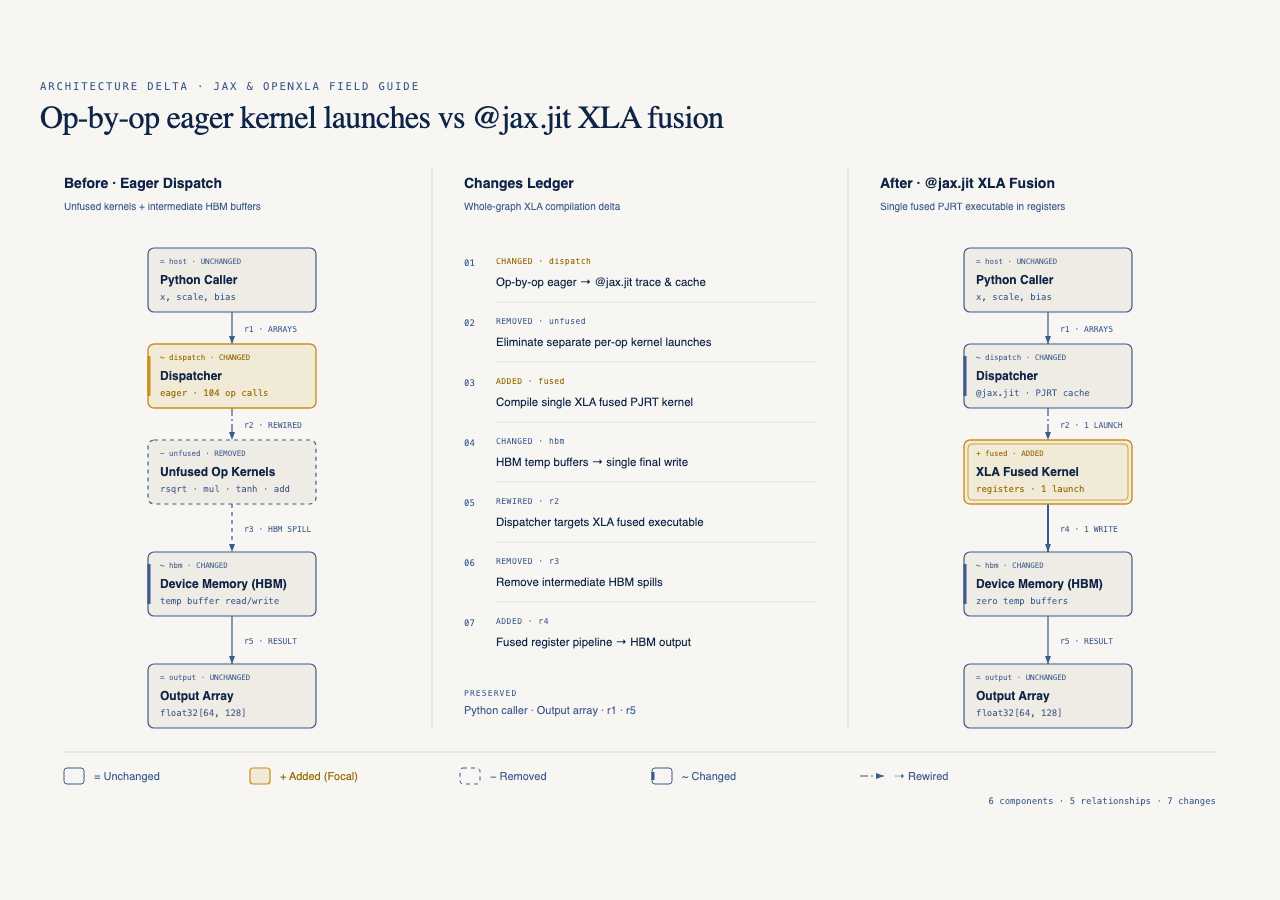
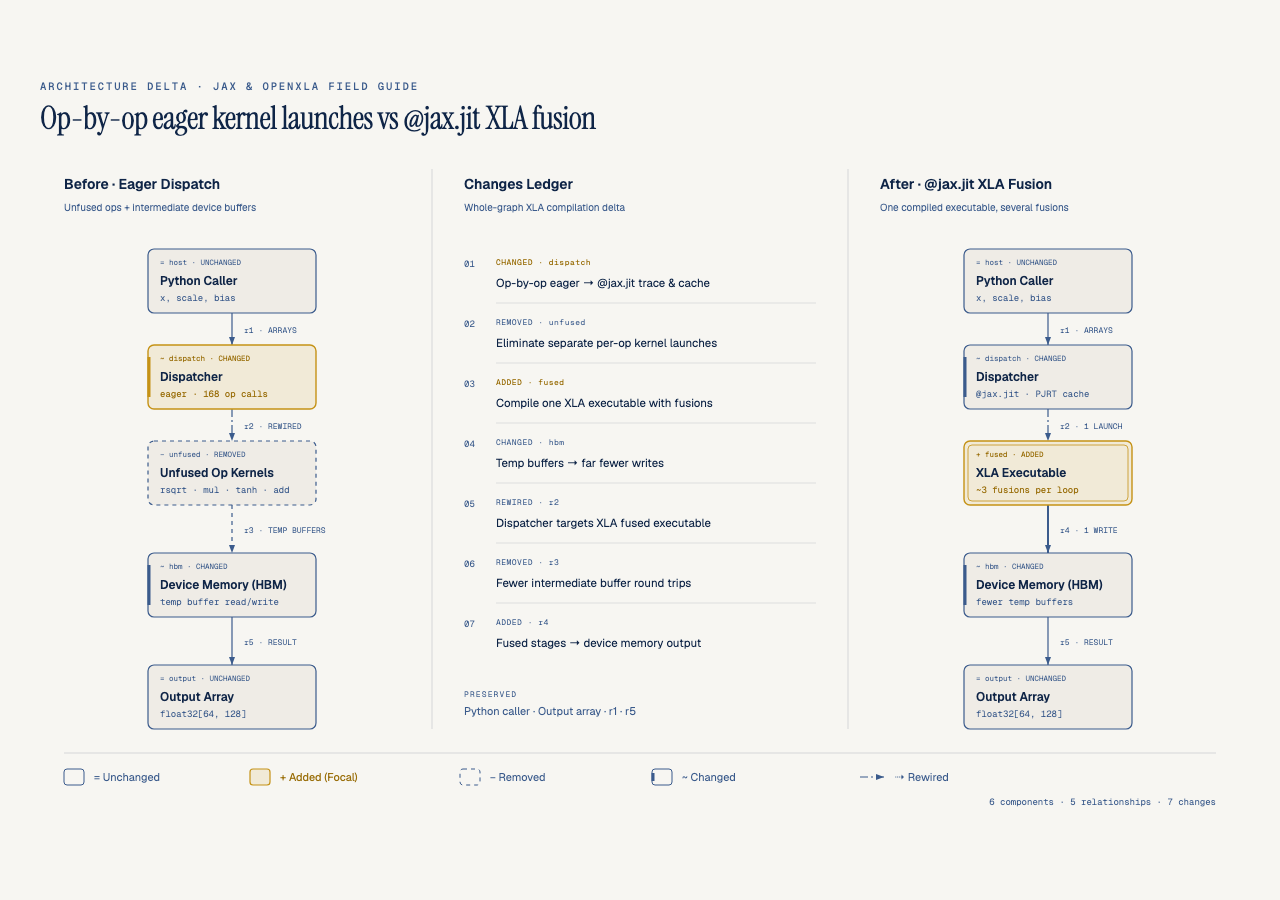
Label each speedup with its baseline; fix kernel/register claims in README and diagrams

diff --git a/diagrams/01-eager-vs-jit.html b/diagrams/01-eager-vs-jit.html
@@ -39,17 +39,17 @@
     <div class="diagram-container" role="region" aria-label="Before, changes, and after architecture comparison; scroll horizontally on narrow screens" tabindex="0">
       <svg viewBox="0 0 1200 660" xmlns="http://www.w3.org/2000/svg" data-diagram="architecture-delta" role="img" aria-labelledby="eager-vs-jit-title eager-vs-jit-desc">
         <title id="eager-vs-jit-title">Eager kernel dispatch vs @jax.jit XLA fusion</title>
-        <desc id="eager-vs-jit-desc">Architecture delta comparing eager operator-by-operator dispatch with intermediate HBM roundtrips against a single XLA-fused PJRT kernel under @jax.jit.</desc>
+        <desc id="eager-vs-jit-desc">Architecture delta comparing eager operator-by-operator dispatch with intermediate buffer roundtrips against one compiled XLA executable with several fusions under @jax.jit.</desc>
         <defs>
           <marker id="eager-vs-jit-arrow" markerWidth="8" markerHeight="6" refX="8" refY="3" orient="auto" markerUnits="userSpaceOnUse"><polygon points="0 0, 8 3, 0 6" fill="#3B5B8C"/></marker>
         </defs>
         <rect width="1200" height="660" fill="#F7F6F2"/>
         <text x="24" y="28" fill="#0F2547" font-size="14" font-family="'Geist', sans-serif" font-weight="600">Before · Eager Dispatch</text>
-        <text x="24" y="50" fill="#3B5B8C" font-size="10" font-family="'Geist', sans-serif">Unfused kernels + intermediate HBM buffers</text>
+        <text x="24" y="50" fill="#3B5B8C" font-size="10" font-family="'Geist', sans-serif">Unfused ops + intermediate device buffers</text>
         <text x="424" y="28" fill="#0F2547" font-size="14" font-family="'Geist', sans-serif" font-weight="600">Changes Ledger</text>
         <text x="424" y="50" fill="#3B5B8C" font-size="10" font-family="'Geist', sans-serif">Whole-graph XLA compilation delta</text>
         <text x="840" y="28" fill="#0F2547" font-size="14" font-family="'Geist', sans-serif" font-weight="600">After · @jax.jit XLA Fusion</text>
-        <text x="840" y="50" fill="#3B5B8C" font-size="10" font-family="'Geist', sans-serif">Single fused PJRT executable in registers</text>
+        <text x="840" y="50" fill="#3B5B8C" font-size="10" font-family="'Geist', sans-serif">One compiled executable, several fusions</text>
         <path d="M 392 8 V 568 M 808 8 V 568" stroke="rgba(15,37,71,0.14)" stroke-width="1"/>
 
         <g data-snapshot="before" transform="translate(24 88)" data-grid="336 480 4">
@@ -63,7 +63,7 @@
           <rect x="176" y="168" width="96" height="16" rx="2" fill="#F7F6F2"/>
           <text x="180" y="180" fill="#3B5B8C" font-size="8" font-family="'Geist Mono', monospace">r2 · REWIRED</text>
           <rect x="176" y="272" width="108" height="16" rx="2" fill="#F7F6F2"/>
-          <text x="180" y="284" fill="#3B5B8C" font-size="8" font-family="'Geist Mono', monospace">r3 · HBM SPILL</text>
+          <text x="180" y="284" fill="#3B5B8C" font-size="8" font-family="'Geist Mono', monospace">r3 · TEMP BUFFERS</text>
           <rect x="176" y="384" width="96" height="16" rx="2" fill="#F7F6F2"/>
           <text x="180" y="396" fill="#3B5B8C" font-size="8" font-family="'Geist Mono', monospace">r5 · RESULT</text>
 
@@ -79,7 +79,7 @@
             <path d="M 85 108 V 148" fill="none" stroke="#C59216" stroke-width="3"/>
             <text x="96" y="112" fill="#9A6F0B" font-size="7.5" font-family="'Geist Mono', monospace">~ dispatch · CHANGED</text>
             <text x="96" y="132" fill="#0F2547" font-size="12" font-family="'Geist', sans-serif" font-weight="600">Dispatcher</text>
-            <text x="96" y="148" fill="#9A6F0B" font-size="9" font-family="'Geist Mono', monospace">eager · 104 op calls</text>
+            <text x="96" y="148" fill="#9A6F0B" font-size="9" font-family="'Geist Mono', monospace">eager · 168 op calls</text>
           </g>
 
           <g data-kind="component" data-object-id="unfused" data-status="removed" data-signature="kernels:unfused:v1">
@@ -115,11 +115,11 @@
         <path d="M 456 202 H 776" stroke="rgba(15,37,71,0.14)" stroke-width="0.8"/>
 
         <text x="424" y="226" fill="#3B5B8C" font-size="9" font-family="'Geist Mono', monospace">03</text>
-        <text x="456" y="224" data-change="ADDED" data-target="fused" fill="#9A6F0B" font-size="8" font-family="'Geist Mono', monospace" letter-spacing="0.06em">ADDED · fused<tspan x="456" y="246" fill="#0F2547" font-size="11.5" font-family="'Geist', sans-serif" letter-spacing="0">Compile single XLA fused PJRT kernel</tspan></text>
+        <text x="456" y="224" data-change="ADDED" data-target="fused" fill="#9A6F0B" font-size="8" font-family="'Geist Mono', monospace" letter-spacing="0.06em">ADDED · fused<tspan x="456" y="246" fill="#0F2547" font-size="11.5" font-family="'Geist', sans-serif" letter-spacing="0">Compile one XLA executable with fusions</tspan></text>
         <path d="M 456 262 H 776" stroke="rgba(15,37,71,0.14)" stroke-width="0.8"/>
 
         <text x="424" y="286" fill="#3B5B8C" font-size="9" font-family="'Geist Mono', monospace">04</text>
-        <text x="456" y="284" data-change="CHANGED" data-target="hbm" fill="#3B5B8C" font-size="8" font-family="'Geist Mono', monospace" letter-spacing="0.06em">CHANGED · hbm<tspan x="456" y="306" fill="#0F2547" font-size="11.5" font-family="'Geist', sans-serif" letter-spacing="0">HBM temp buffers → single final write</tspan></text>
+        <text x="456" y="284" data-change="CHANGED" data-target="hbm" fill="#3B5B8C" font-size="8" font-family="'Geist Mono', monospace" letter-spacing="0.06em">CHANGED · hbm<tspan x="456" y="306" fill="#0F2547" font-size="11.5" font-family="'Geist', sans-serif" letter-spacing="0">Temp buffers → far fewer writes</tspan></text>
         <path d="M 456 322 H 776" stroke="rgba(15,37,71,0.14)" stroke-width="0.8"/>
 
         <text x="424" y="346" fill="#3B5B8C" font-size="9" font-family="'Geist Mono', monospace">05</text>
@@ -127,11 +127,11 @@
         <path d="M 456 382 H 776" stroke="rgba(15,37,71,0.14)" stroke-width="0.8"/>
 
         <text x="424" y="406" fill="#3B5B8C" font-size="9" font-family="'Geist Mono', monospace">06</text>
-        <text x="456" y="404" data-change="REMOVED" data-target="r3" fill="#3B5B8C" font-size="8" font-family="'Geist Mono', monospace" letter-spacing="0.06em">REMOVED · r3<tspan x="456" y="426" fill="#0F2547" font-size="11.5" font-family="'Geist', sans-serif" letter-spacing="0">Remove intermediate HBM spills</tspan></text>
+        <text x="456" y="404" data-change="REMOVED" data-target="r3" fill="#3B5B8C" font-size="8" font-family="'Geist Mono', monospace" letter-spacing="0.06em">REMOVED · r3<tspan x="456" y="426" fill="#0F2547" font-size="11.5" font-family="'Geist', sans-serif" letter-spacing="0">Fewer intermediate buffer round trips</tspan></text>
         <path d="M 456 442 H 776" stroke="rgba(15,37,71,0.14)" stroke-width="0.8"/>
 
         <text x="424" y="466" fill="#3B5B8C" font-size="9" font-family="'Geist Mono', monospace">07</text>
-        <text x="456" y="464" data-change="ADDED" data-target="r4" fill="#3B5B8C" font-size="8" font-family="'Geist Mono', monospace" letter-spacing="0.06em">ADDED · r4<tspan x="456" y="486" fill="#0F2547" font-size="11.5" font-family="'Geist', sans-serif" letter-spacing="0">Fused register pipeline → HBM output</tspan></text>
+        <text x="456" y="464" data-change="ADDED" data-target="r4" fill="#3B5B8C" font-size="8" font-family="'Geist Mono', monospace" letter-spacing="0.06em">ADDED · r4<tspan x="456" y="486" fill="#0F2547" font-size="11.5" font-family="'Geist', sans-serif" letter-spacing="0">Fused stages → device memory output</tspan></text>
 
         <text x="424" y="536" fill="#3B5B8C" font-size="8" font-family="'Geist Mono', monospace" letter-spacing="0.14em">PRESERVED</text>
         <text x="424" y="554" fill="#3B5B8C" font-size="11" font-family="'Geist', sans-serif">Python caller · Output array · r1 · r5</text>
@@ -170,8 +170,8 @@
             <rect data-role="bounds" x="84" y="192" width="168" height="64" rx="6" fill="rgba(197,146,22,0.12)" stroke="#C59216" stroke-width="1.4"/>
             <rect x="88" y="196" width="160" height="56" rx="4" fill="none" stroke="#C59216" stroke-width="0.8"/>
             <text x="96" y="208" fill="#9A6F0B" font-size="7.5" font-family="'Geist Mono', monospace">+ fused · ADDED</text>
-            <text x="96" y="228" fill="#0F2547" font-size="12" font-family="'Geist', sans-serif" font-weight="600">XLA Fused Kernel</text>
-            <text x="96" y="244" fill="#9A6F0B" font-size="9" font-family="'Geist Mono', monospace">registers · 1 launch</text>
+            <text x="96" y="228" fill="#0F2547" font-size="12" font-family="'Geist', sans-serif" font-weight="600">XLA Executable</text>
+            <text x="96" y="244" fill="#9A6F0B" font-size="9" font-family="'Geist Mono', monospace">~3 fusions per loop</text>
           </g>
 
           <g data-kind="component" data-object-id="hbm" data-status="changed" data-signature="memory:final-only">
@@ -179,7 +179,7 @@
             <path d="M 85 316 V 356" fill="none" stroke="#3B5B8C" stroke-width="3"/>
             <text x="96" y="320" fill="#3B5B8C" font-size="7.5" font-family="'Geist Mono', monospace">~ hbm · CHANGED</text>
             <text x="96" y="340" fill="#0F2547" font-size="12" font-family="'Geist', sans-serif" font-weight="600">Device Memory (HBM)</text>
-            <text x="96" y="356" fill="#3B5B8C" font-size="9" font-family="'Geist Mono', monospace">zero temp buffers</text>
+            <text x="96" y="356" fill="#3B5B8C" font-size="9" font-family="'Geist Mono', monospace">fewer temp buffers</text>
           </g>
 
           <g data-kind="component" data-object-id="output" data-status="unchanged" data-signature="array:output:v1">

diff --git a/diagrams/03-vmap-scan-dataflow.html b/diagrams/03-vmap-scan-dataflow.html
@@ -43,7 +43,7 @@
     <div class="diagram-container">
       <svg viewBox="0 0 728 436" xmlns="http://www.w3.org/2000/svg" role="img" aria-labelledby="vmap-scan-title vmap-scan-desc">
         <title id="vmap-scan-title">vmap and lax.scan compiler dataflow</title>
-        <desc id="vmap-scan-desc">Dataflow across Python Host, JAX Tracer, OpenXLA Compiler, and Accelerator HBM showing how vmap pushes batch dimensions into primitives and lax.scan lowers sequential loops into an in-register XLA WhileOp.</desc>
+        <desc id="vmap-scan-desc">Dataflow across Python Host, JAX Tracer, OpenXLA Compiler, and Accelerator HBM showing how vmap pushes batch dimensions into primitives and lax.scan lowers sequential loops into a single compiled XLA while loop whose carry stays in device buffers.</desc>
         <defs>
           <pattern id="dots" width="22" height="22" patternUnits="userSpaceOnUse"><circle cx="11" cy="11" r="0.8" fill="rgba(15,37,71,0.10)"/></pattern>
           <marker id="arr-muted" markerWidth="6" markerHeight="6" refX="5" refY="3" orient="auto"><path d="M0 0 L6 3 L0 6 Z" fill="#3B5B8C"/></marker>
@@ -104,14 +104,14 @@
         <!-- Node 3: OpenXLA / lax.scan WhileOp (FOCAL) -->
         <rect x="370" y="204" width="100" height="64" rx="6" fill="rgba(197,146,22,0.12)" stroke="#C59216" stroke-width="1.4"/>
         <rect x="374" y="208" width="18" height="10" rx="3" fill="rgba(197,146,22,0.22)"/><text x="383" y="213" class="role-text focal-text">XLA</text>
-        <text x="420" y="227" class="node-title">lax.scan Loop</text><text x="420" y="239" class="node-sub">500 steps → 1 op</text><text x="420" y="251" class="node-tool">StableHLO WhileOp</text>
+        <text x="420" y="227" class="node-title">lax.scan Loop</text><text x="420" y="239" class="node-sub">500 steps → 1 while</text><text x="420" y="251" class="node-tool">StableHLO WhileOp</text>
         <rect x="374" y="258" width="16" height="8" rx="3" fill="#b8915a"/><text x="382" y="264" class="chip-text">TB</text>
         <rect x="450" y="258" width="16" height="8" rx="3" fill="#b8915a"/><text x="458" y="264" class="chip-text">TB</text>
 
         <!-- Node 4: OpenXLA / Operator Fusion -->
         <rect x="482" y="204" width="100" height="64" rx="6" fill="#EFECE6" stroke="rgba(15,37,71,0.28)"/>
         <rect x="486" y="208" width="18" height="10" rx="3" fill="rgba(15,37,71,0.12)"/><text x="495" y="213" class="role-text">XLA</text>
-        <text x="532" y="227" class="node-title">Loop Fusion</text><text x="532" y="239" class="node-sub">carry in registers</text><text x="532" y="251" class="node-tool">zero host sync</text>
+        <text x="532" y="227" class="node-title">Loop Fusion</text><text x="532" y="239" class="node-sub">carry in device buffers</text><text x="532" y="251" class="node-tool">zero host sync</text>
         <rect x="486" y="258" width="16" height="8" rx="3" fill="#b8915a"/><text x="494" y="264" class="chip-text">TB</text>
         <rect x="562" y="258" width="16" height="8" rx="3" fill="#b8915a"/><text x="570" y="264" class="chip-text">TB</text>
 

diff --git a/diagrams/02-jit-lifecycle.html b/diagrams/02-jit-lifecycle.html
@@ -138,7 +138,7 @@
         <text x="500" y="441" fill="#3B5B8C" font-size="8" font-family="'Geist Mono', monospace" text-anchor="middle">CACHED XLA</text>
 
         <rect x="444" y="472" width="112" height="12" rx="2" fill="#F7F6F2"/>
-        <text x="500" y="481" fill="#9A6F0B" font-size="8" font-family="'Geist Mono', monospace" font-weight="600" text-anchor="middle">FUSED (7.84X)</text>
+        <text x="500" y="481" fill="#9A6F0B" font-size="8" font-family="'Geist Mono', monospace" font-weight="600" text-anchor="middle">8.85X VS EAGER</text>
 
         <!-- Actor Boxes -->
         <rect x="56" y="64" width="160" height="56" rx="6" fill="#EFECE6" stroke="#3B5B8C" stroke-width="1.2"/>

diff --git a/verify_speedup.py b/verify_speedup.py
@@ -1,6 +1,6 @@
 """The Outside Judge: Deterministic Verification & Benchmark Runner.
 
-Executes all 5 JAX vs PyTorch experiments, verifies numerical parity (`allclose`),
+Executes all 5 experiments (JAX, with PyTorch eager as a parity reference), verifies numerical parity (`allclose`),
 asserts >5x speedup on JIT operator fusion, `vmap(grad)`, and `lax.scan`,
 asserts zero extra recompilations with static bucket padding, and writes
 `benchmarks/latest_results.json`.
@@ -82,14 +82,8 @@ def run_all_verifications() -> dict[str, Any]:
     return summary
 
 
-def main() -> None:
-    summary = run_all_verifications()
-    bench_dir = Path(__file__).resolve().parent / "benchmarks"
-    bench_dir.mkdir(parents=True, exist_ok=True)
-    out_json = bench_dir / "latest_results.json"
-    out_txt = bench_dir / "terminal_output.txt"
-    out_json.write_text(json.dumps(summary, indent=2) + "\n", encoding="utf-8")
-
+def format_report(summary: dict[str, Any], json_path: str) -> str:
+    """Render the judge table from a results summary (pure function of the JSON)."""
     env = summary["environment"]
     e01 = summary["experiments"]["01_jit_operator_fusion"]
     e02 = summary["experiments"]["02_pure_functions_pytrees"]
@@ -99,7 +93,7 @@ def main() -> None:
 
     lines = [
         "=" * 78,
-        "THE OUTSIDE JUDGE — JAX vs PyTorch Eager Verification Report",
+        "THE OUTSIDE JUDGE — jit, vmap, scan and buckets vs their baselines",
         "=" * 78,
         (
             f"Runtime : Python {env['python_version']} | JAX {env['jax_version']} | "
@@ -109,7 +103,7 @@ def main() -> None:
         f"{'Experiment':<34} | {'Baseline':<14} | {'JAX/XLA':<14} | {'Speedup / Check':<15}",
         "-" * 78,
         (
-            f"{'01. @jit Operator Fusion':<34} | "
+            f"{'01. jit vs JAX eager':<34} | "
             f"{str(e01['jax_eager_ms']) + ' ms':<14} | "
             f"{str(e01['jax_jit_ms']) + ' ms':<14} | "
             f"{str(e01['speedup_vs_jax_eager']) + 'x (PASS)':<15}"
@@ -125,29 +119,39 @@ def main() -> None:
                 f"{delta_str:<15}"
             ),
             (
-                f"{'03. vmap(grad) Per-Sample Clip':<34} | "
+                f"{'03. vmap(grad) vs Python loop':<34} | "
                 f"{str(e03['loop_ms']) + ' ms':<14} | "
                 f"{str(e03['vmap_ms']) + ' ms':<14} | "
                 f"{str(e03['speedup']) + 'x (PASS)':<15}"
             ),
             (
-                f"{'04. lax.scan 500-Step Rollout':<34} | "
+                f"{'04. lax.scan vs Python loop':<34} | "
                 f"{str(e04['python_loop_ms']) + ' ms':<14} | "
                 f"{str(e04['lax_scan_ms']) + ' ms':<14} | "
                 f"{str(e04['speedup']) + 'x (PASS)':<15}"
             ),
             (
-                f"{'05. Static Bucket Padding':<34} | "
+                f"{'05. Buckets (warmup excluded)':<34} | "
                 f"{str(e05['naive_trace_count']) + ' compiles':<14} | "
                 f"{str(e05['bucket_extra_recompilations']) + ' extra comp':<14} | "
                 f"{str(e05['speedup']) + 'x (PASS)':<15}"
             ),
             "-" * 78,
-            f"Saved JSON report to: {out_json.relative_to(Path(__file__).resolve().parent)}",
-            "ALL DETERMINISTIC CHECKS PASSED.",
+            f"Saved JSON report to: {json_path}",
+            "ALL CHECKS PASSED (parity checks are deterministic; timings vary run to run).",
         ]
     )
-    report = "\n".join(lines)
+    return "\n".join(lines)
+
+
+def main() -> None:
+    summary = run_all_verifications()
+    bench_dir = Path(__file__).resolve().parent / "benchmarks"
+    bench_dir.mkdir(parents=True, exist_ok=True)
+    out_json = bench_dir / "latest_results.json"
+    out_txt = bench_dir / "terminal_output.txt"
+    out_json.write_text(json.dumps(summary, indent=2) + "\n", encoding="utf-8")
+    report = format_report(summary, str(out_json.relative_to(Path(__file__).resolve().parent)))
     out_txt.write_text(report + "\n", encoding="utf-8")
     print(report)
 

diff --git a/experiments/04_lax_scan_unrolling.py b/experiments/04_lax_scan_unrolling.py
@@ -108,7 +108,7 @@ def main() -> None:
     print("Experiment 04: 500-Step Trajectory Unrolling vs jax.lax.scan")
     print("=" * 72)
     print(f"Sequence Length         : {res['seq_len']} steps, batch={res['batch_size']}, dim={res['hidden_dim']}")
-    print(f"Top-Level Jaxpr Eqns    : {res['top_level_jaxpr_eqns']} (single compiled scan primitive)")
+    print(f"Top-Level Jaxpr Eqns    : {res['top_level_jaxpr_eqns']} (one jit call; scan sits inside it)")
     print(f"Python Loop Avg Time    : {res['python_loop_ms']:.4f} ms")
     print(f"jax.lax.scan Avg Time   : {res['lax_scan_ms']:.4f} ms")
     print(f"Compiled Scan Speedup   : {res['speedup']:.2f}x")

diff --git a/experiments/05_dynamic_shapes_trap.py b/experiments/05_dynamic_shapes_trap.py
@@ -125,7 +125,7 @@ def main() -> None:
     print(f"Bucketed Warmup Traces    : {res['bucket_warmup_traces']} XLA compilations")
     print(f"Extra Recompilations      : {res['bucket_extra_recompilations']} (0 cache misses in prod)")
     print(f"Bucketed Execution Time   : {res['bucket_total_ms']:.2f} ms")
-    print(f"Latency Speedup           : {res['speedup']:.2f}x")
+    print(f"Latency Speedup           : {res['speedup']:.2f}x (bucket warmup compiles excluded)")
     print(f"Max Masked Output Diff    : {res['max_output_diff']:.2e}")
 
 

diff --git a/README.md b/README.md
@@ -1,6 +1,6 @@
 # JAX & OpenXLA para Desarrolladores PyTorch
 
-- **Por qué es relevante:** Pasar del dispatch imperativo operación por operación a la compilación de grafos completos en OpenXLA permite fusionar operadores en memoria caché del acelerador, vectorizar gradientes por ejemplo sin loops en Python y ejecutar trayectorias secuenciales en un único kernel compilado.
+- **Por qué es relevante:** Pasar del dispatch imperativo operación por operación a la compilación de funciones completas con OpenXLA reduce el dispatch y fusiona operaciones dentro de un solo programa compilado, permite vectorizar gradientes per-sample sin loops en Python y ejecutar trayectorias secuenciales dentro de un solo `while` compilado. Todas las cifras de este repo se midieron en CPU.
 - **Para quién es:** Ingenieros de Machine Learning y desarrolladores que dominan PyTorch (`nn.Module`, `loss.backward()`, `optimizer.step()`) y buscan dominar el modelo mental funcional de JAX (`@jax.jit`, PyTrees, `vmap`, `lax.scan`).
 - **Quién debería verlo:** Equipos técnicos que entrenan o sirven modelos en GPUs y Cloud TPUs y necesitan eliminar cuellos de botella de lanzamiento de kernels y recompilaciones por formas dinámicas.
 - **Serie completa:** Parte de la guía práctica [JAX & OpenXLA Field Guide](https://github.com/ykro/jax-openxla-field-guide).
@@ -11,7 +11,7 @@
 
 ### 1. Eager Dispatch vs Fusión de Operadores con `@jax.jit`
 
-En modo eager, cada operación aritmética lanza un kernel independiente y materializa buffers intermedios en la memoria del dispositivo (HBM). Al decorar con `@jax.jit`, JAX traza la función con `ShapedArray`, genera un `Jaxpr`, lo baja a `StableHLO` y el compilador OpenXLA fusiona las etapas elementwise y de reducción en un solo ejecutable PJRT.
+En modo eager, cada operación se despacha por separado desde Python y materializa sus buffers intermedios en la memoria del dispositivo (HBM en GPU/TPU, RAM en CPU). Al decorar con `@jax.jit`, JAX traza la función con `ShapedArray`, genera un `Jaxpr`, lo baja a `StableHLO` y el compilador OpenXLA produce un solo ejecutable que agrupa las etapas elementwise y de reducción en varias fusiones (en el experimento 01, en CPU, unas tres por vuelta del loop).
 
 ![Eager Dispatch vs Fusión XLA con @jax.jit](diagrams/01-eager-vs-jit.svg)
 
@@ -23,7 +23,7 @@ La primera invocación con una firma `(shape, dtype)` nueva ejecuta el código P
 
 ### 3. Vectorización con `vmap` y Loops Compilados con `lax.scan`
 
-En lugar de iterar en Python sobre ejemplos de un batch o sobre pasos temporales, `jax.vmap` empuja el batch axis hacia las primitivas XLA y `jax.lax.scan` compila recurrencias largas en una única instrucción `WhileOp` que mantiene el estado (`carry`) en registros del acelerador.
+En lugar de iterar en Python sobre ejemplos de un batch o sobre pasos temporales, `jax.vmap` empuja el batch axis hacia las primitivas XLA y `jax.lax.scan` compila recurrencias largas en un solo `stablehlo.while` cuyo estado (`carry`) vive en buffers del dispositivo y no regresa a Python entre pasos.
 
 ![Flujo de datos de vmap y lax.scan](diagrams/03-vmap-scan-dataflow.svg)
 
@@ -31,34 +31,34 @@ En lugar de iterar en Python sobre ejemplos de un batch o sobre pasos temporales
 
 ## Resultados Reales de Verificación (`verify_speedup.py`)
 
-Benchmarks deterministas ejecutados con Python `3.12.11`, JAX `0.12.0.1` y PyTorch `2.15.0`:
+Verificaciones de paridad deterministas; los tiempos son medias de una corrida en CPU y varían entre corridas (±15–20 %). Python `3.12.11`, JAX `0.12.0.1` y PyTorch `2.15.0`. Cada speedup se mide contra su propio baseline: el 01 contra la misma función en JAX eager (PyTorch eager aparece como referencia, sin `torch.compile`), el 03 y el 04 contra loops de Python en JAX, y el 05 excluye del tiempo de buckets sus 3 compilaciones de warmup:
 
-| Experimento | Archivo | Baseline (Eager / Loop) | JAX + OpenXLA | Speedup / Paridad Numérica |
+| Experimento | Archivo | Baseline | JAX + OpenXLA | Speedup / Paridad Numérica |
 | :--- | :--- | :--- | :--- | :--- |
 | **01. `@jax.jit` Operator Fusion** | `experiments/01_jit_operator_fusion.py` | `1.4055 ms` (JAX Eager) / `0.8959 ms` (PyTorch) | `0.1589 ms` (`@jax.jit`) | **8.85x** (`max_diff = 3.34e-06`) |
 | **02. Pure Functions & PyTrees** | `experiments/02_pure_functions_pytrees.py` | `loss = 0.845957` (`nn.Module` + SGD) | `loss = 0.845957` (`NamedTuple` PyTree) | **Paridad exacta** (`ΔW1 = 1.49e-08`) |
 | **03. `vmap(grad)` Per-Sample Clip** | `experiments/03_vmap_batching.py` | `24.6432 ms` (loop Python, `B=128`) | `0.1776 ms` (`vmap(grad)`) | **138.78x** (`max_diff = 1.40e-09`) |
 | **04. `lax.scan` 500-Step Rollout** | `experiments/04_lax_scan_unrolling.py` | `34.5272 ms` (loop Python, `T=500`) | `2.8744 ms` (`lax.scan`) | **12.01x** (`max_diff = 0.00e+00`) |
-| **05. Static Bucket Padding** | `experiments/05_dynamic_shapes_trap.py` | `24 compilaciones` (`1061.29 ms`) | `0 recompilaciones extra` (`19.74 ms`) | **53.76x** (`max_diff = 8.94e-08`) |
+| **05. Static Bucket Padding** | `experiments/05_dynamic_shapes_trap.py` | `24 compilaciones` (`1061.29 ms`) | `3 compilaciones de warmup fuera del tiempo, 0 extra` (`19.74 ms`) | **53.76x** (`max_diff = 8.94e-08`) |
 
 Salida íntegra de terminal generada por `verify_speedup.py`:
 
 ```text
 ==============================================================================
-THE OUTSIDE JUDGE — JAX vs PyTorch Eager Verification Report
+THE OUTSIDE JUDGE — jit, vmap, scan and buckets vs their baselines
 ==============================================================================
 Runtime : Python 3.12.11 | JAX 0.12.0.1 | PyTorch 2.15.0 | Backend: cpu
 ------------------------------------------------------------------------------
 Experiment                         | Baseline       | JAX/XLA        | Speedup / Check
 ------------------------------------------------------------------------------
-01. @jit Operator Fusion           | 1.4055 ms      | 0.1589 ms      | 8.85x (PASS)   
+01. jit vs JAX eager               | 1.4055 ms      | 0.1589 ms      | 8.85x (PASS)   
 02. Pure PyTree vs nn.Module       | loss=0.845957  | loss=0.845957  | Δ=1.5e-08 (PASS)
-03. vmap(grad) Per-Sample Clip     | 24.6432 ms     | 0.1776 ms      | 138.78x (PASS) 
-04. lax.scan 500-Step Rollout      | 34.5272 ms     | 2.8744 ms      | 12.01x (PASS)  
-05. Static Bucket Padding          | 24 compiles    | 0 extra comp   | 53.76x (PASS)  
+03. vmap(grad) vs Python loop      | 24.6432 ms     | 0.1776 ms      | 138.78x (PASS) 
+04. lax.scan vs Python loop        | 34.5272 ms     | 2.8744 ms      | 12.01x (PASS)  
+05. Buckets (warmup excluded)      | 24 compiles    | 0 extra comp   | 53.76x (PASS)  
 ------------------------------------------------------------------------------
 Saved JSON report to: benchmarks/latest_results.json
-ALL DETERMINISTIC CHECKS PASSED.
+ALL CHECKS PASSED (parity checks are deterministic; timings vary run to run).
 ```
 
 ---
@@ -118,7 +118,7 @@ python experiments/02_pure_functions_pytrees.py
 # Paso 3 — Vectorización de gradientes per-sample con jax.vmap(jax.grad)
 python experiments/03_vmap_batching.py
 
-# Paso 4 — Loops recurrentes compilados en una sola primitiva con jax.lax.scan
+# Paso 4 — Loops recurrentes compilados en un solo while con jax.lax.scan
 python experiments/04_lax_scan_unrolling.py
 
 # Paso 5 — Trampa de formas dinámicas y solución con static bucket padding
@@ -137,7 +137,7 @@ make all
 
 ### 4. Ejecución on-demand en Google Cloud (Cloud TPU v5e o NVIDIA L4 GPU)
 
-El script `gcp/run_gpu_tpu_benchmark.sh` aprovisiona una Cloud TPU `v5litepod-1` (o un Custom Job en Vertex AI con GPU NVIDIA L4) en tu propio proyecto de Google Cloud (variable `GCP_PROJECT_ID`) y garantiza la destrucción automática de la instancia mediante `trap cleanup EXIT`.
+El script `gcp/run_gpu_tpu_benchmark.sh` aprovisiona una Cloud TPU `v5litepod-1` (o un Custom Job en Vertex AI con GPU NVIDIA L4) en tu propio proyecto de Google Cloud (variable `GCP_PROJECT_ID`) y garantiza la destrucción automática de la instancia mediante `trap cleanup EXIT`. El script está listo, pero este repo todavía no publica cifras de TPU ni de GPU.
 
 ```bash
 # Ejecutar benchmark en Cloud TPU v5e-1 on-demand (us-central1-a)
